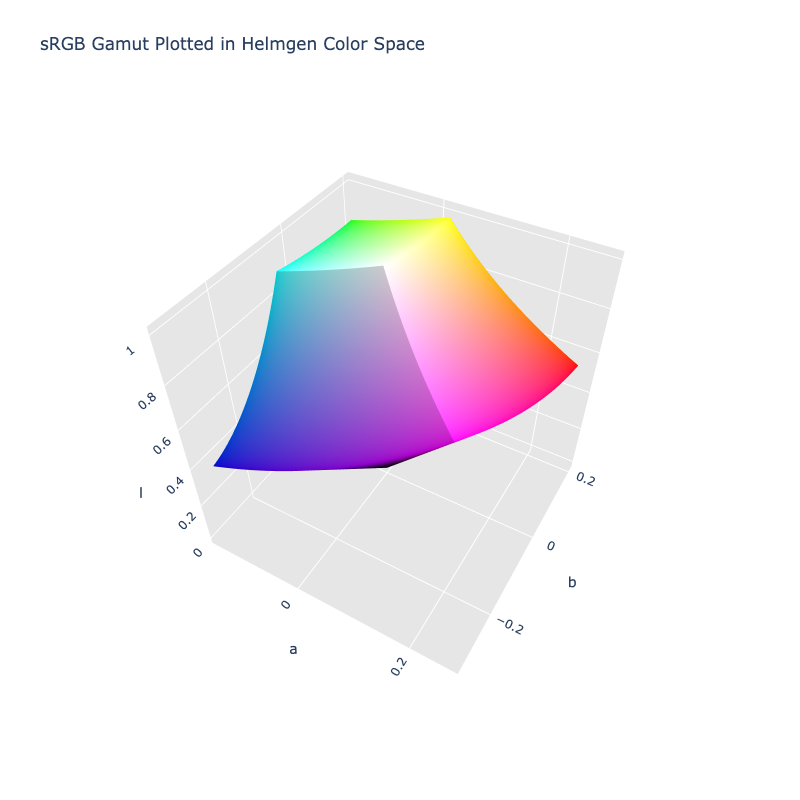
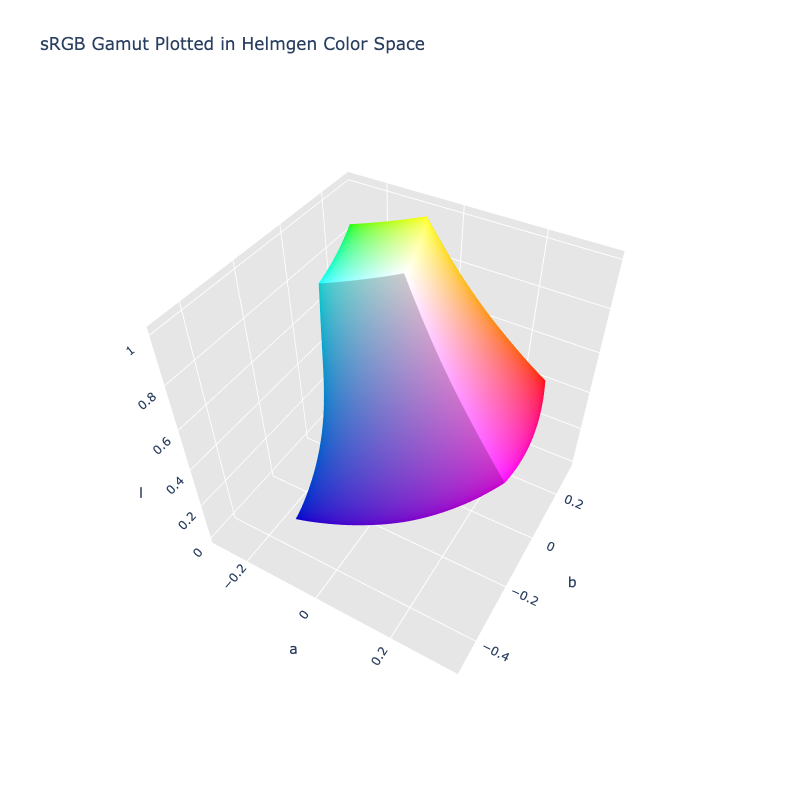
Update helmgen

Changed region(s): [[0.25, 0.25, 0.7188, 0.6562], [0.7188, 0.5938, 0.75, 0.625], [0.4688, 0.8125, 0.5, 0.8438]]

diff --git a/coloraide/spaces/helmgen.py b/coloraide/spaces/helmgen.py
@@ -15,51 +15,229 @@ Key differences from Helmlab (MetricSpace):
 - https://github.com/Grkmyldz148/helmlab
 """
 from __future__ import annotations
+import math
 from .lab import Lab
 from ..cat import WHITES
 from ..channels import Channel, FLG_MIRROR_PERCENT
 from .. import algebra as alg
 from ..types import Vector
 
+# Depressed cubic parameter
+ALPHA = 0.02
+S = math.sqrt(ALPHA / 3)
+S3 = S ** 3
+
+# L-gated hue enrichment parameters
+ENR_AMP = 0.055
+ENR_CENTER = 264.5 * math.pi / 180 # radians
+ENR_SIGMA = 0.7
+ENR_LLO = 0.37
+ENR_LHI = 1.0
+
 
 M1 = [
-    [0.758376129483666, 0.38380162590825073, -0.09608055040602373],
-    [0.1267139363153284, 0.8421628149123207, 0.03434823621506485],
-    [0.07639223722200054, 0.25894352627545103, 0.6139139663787314]
+    [0.8154374735648701, 0.3603221491264266, -0.12432703417946676],
+    [0.03298391207546648, 0.9292940788255503, 0.03614494665290377],
+    [0.048184113668356454, 0.26427748135788043, 0.6336388271114471]
 ]
 
 M1_INV = [
-    [1.4133073795748359, -0.7245661027731641, 0.2617287231983285],
-    [-0.20907372745004316, 1.3153903462455017, -0.10631661879545858],
-    [-0.08767910052303855, -0.46465890124976855, 1.641168001772807]
+    [1.2326502723725545, -0.555741473217925, 0.2735612008453706],
+    [-0.04076658787624679, 1.1122097325799585, -0.07144314470371178],
+    [-0.07673215022426162, -0.4216188546558441, 1.5871810048801054]
 ]
 
 M2 = [
-    [0.10058070589596234, 1.0155897099394149, -0.1161704158353769],
-    [2.361576469961645, -2.4409973750629357, 0.07942090510129071],
-    [0.04565327074453785, 0.818754884454245, -0.8644081551987829]
+    [0.21186668013760682, 0.7989440040850104, -0.004099375589489282],
+    [2.4672018828033475, -2.9877348024830788, 0.520532919679731],
+    [-0.11390787868068575, 1.3932982808117473, -1.279390402131062]
 ]
 
 M2_INV = [
-    [0.9999999999999997, 0.3827736318539182, -0.09922417671418936],
-    [0.9999999999999996, -0.039921540824987126, -0.13806096115936264],
-    [0.9999999999999997, -0.017597113360184317, -1.292870720601441]
+    [0.9933334327571627, 0.32599327253052285, 0.12945085631713896],
+    [0.9933334327571626, -0.08708353111074632, -0.03861361743004954],
+    [0.9933334327571621, -0.12386097008215027, -0.8351991365871065]
 ]
+
+PW_L_IN = [
+    0, 0.05, 0.1, 0.15, 0.2, 0.25, 0.3, 0.35, 0.4, 0.45, 0.5,
+    0.55, 0.6, 0.65, 0.7, 0.75, 0.8, 0.85, 0.9, 0.95, 1.0
+]
+
+PW_L_OUT = [
+    0, 0.009494013522189627, 0.02564569838030986, 0.05525966165868908,
+    0.10574901531227408, 0.16055853320726027, 0.2140596489299375, 0.2678623050881122,
+    0.3220435246104499, 0.3739052098520243, 0.43020997780918835, 0.4835465162128873,
+    0.5399824670411352, 0.5956710081330342, 0.6542161666450477, 0.7115380216519989,
+    0.7702762412711669, 0.8293313467712836, 0.889406386197059, 0.9462829573474727,
+    1.0
+]
+
+PW_N = len(PW_L_IN)
+
+
+# Depressed cubic: y ** 3 + αy = x
+def depcubic_fwd(x: float) -> float:
+    """Depressed cubic forward."""
+    t = x / (2 * S3)
+    y = 2 * S * math.sinh(math.asinh(t) / 3)
+    # Halley refinement
+    f = y ** 3 + ALPHA * y - x
+    fp = 3 * y * y + ALPHA
+    fpp = 6 * y
+    denom = 2 * fp * fp - f * fpp
+    if abs(denom) > 1e-30:
+        y -= 2 * f * fp / denom
+    return y
+
+
+def depcubic_inv(y: float) -> float:
+    """Depressed cubic inverse."""
+
+    return y * y * y + ALPHA * y
+
+
+# L - gated hue enrichment
+def enrich_gate(l: float) -> float:
+    """Enrichment gate."""
+    t = max(0, min(1, (l - ENR_LLO) / (ENR_LHI - ENR_LLO)))
+    return math.sin(math.pi * t) ** 2
+
+
+def enrich_fwd(l: float, a: float, b: float) -> Vector:
+    """Enrichment forward."""
+    c = math.sqrt(a ** 2 + b ** 2)
+    if (c < 1e-12):
+        return [a, b]
+
+    gate = enrich_gate(l)
+    if (gate < 1e-12):
+        return [a, b]
+
+    h = math.atan2(b, a)
+    dh = h - ENR_CENTER
+    dh = dh - round(dh / (2 * math.pi)) * 2 * math.pi
+    gauss = math.exp(-0.5 * (dh / ENR_SIGMA) ** 2)
+    h_new = h + ENR_AMP * gate * gauss
+    return [c * math.cos(h_new), c * math.sin(h_new)]
+
+
+def enrich_inv (l: float, a: float, b: float) -> Vector:
+    """Inverse enrichment."""
+    c = math.sqrt(a ** 2 + b ** 2)
+    if (c < 1e-12):
+        return [a, b]
+
+    gate = enrich_gate(l)
+    if (gate < 1e-12):
+        return [a, b]
+
+    h_target = math.atan2(b, a)
+    sig2 = ENR_SIGMA * ENR_SIGMA
+    ag = ENR_AMP * gate
+    h = h_target
+    for _ in range(8):
+        dh = h - ENR_CENTER
+        dh = dh - round(dh / (2 * math.pi)) * 2 * math.pi
+        gauss = math.exp(-0.5 * dh * dh / sig2)
+        f = h + ag * gauss - h_target
+        fp = 1 + ag * gauss * (-dh / sig2)
+        fpp = ag * gauss * (-1 / sig2 + dh * dh / (sig2 * sig2))
+        den = 2 * fp * fp - f * fpp
+        if abs(den) > 1e-30:
+            h -= 2 * f * fp / den
+
+    return [c * math.cos(h), c * math.sin(h)]
+
+
+# PW L correction
+def pw_l_fwd(l: float) -> float:
+    """PW L correction (forward)."""
+    if (l <= 0 or l >= 1):
+        return l
+
+    lo, hi  = 0, PW_N - 1
+    while (hi - lo) > 1:
+        mid = (lo + hi) >> 1
+        if (PW_L_IN[mid] <= l):
+            lo = mid
+        else:
+            hi = mid
+
+    t = (l - PW_L_IN[lo]) / (PW_L_IN[hi] - PW_L_IN[lo])
+    return PW_L_OUT[lo] + t * (PW_L_OUT[hi] - PW_L_OUT[lo])
+
+
+def pw_l_inv(l: float) -> float:
+    """PW L correction (inverse)."""
+    if l <= PW_L_OUT[0] or l >= PW_L_OUT[PW_N - 1]:
+        return l
+
+    lo, hi = 0, PW_N - 1
+    while (hi - lo) > 1:
+        mid = (lo + hi) >> 1
+        if PW_L_OUT[mid] <= l:
+            lo = mid
+        else:
+            hi = mid
+
+    t = (l - PW_L_OUT[lo]) / (PW_L_OUT[hi] - PW_L_OUT[lo])
+    return PW_L_IN[lo] + t * (PW_L_IN[hi] - PW_L_IN[lo])
 
 
 def xyz_d65_to_helmgen(xyz: Vector) -> Vector:
     """Convert XYZ to Helmgen."""
 
+    # Stage 1: XYZ -> LMS (M1)
     lms = alg.matmul_x3(M1, xyz, dims=alg.D2_D1)
-    c = [alg.nth_root(v, 3) for v in lms]
-    return alg.matmul_x3(M2, c, dims=alg.D2_D1)
+    c = [depcubic_fwd(max(v, 0)) for v in lms]
+
+    # Stage 2.5: Smooth neutral blend (C∞ correction for achromatic precision)
+    mean = sum(c) / 3
+    mx = max(c)
+    mn = min(c)
+    spread = (mx - mn) / max(abs(mean), 1e-30)
+    w = math.exp(-((spread / 1e-5) ** 2))
+    c = [v + w * (mean - v) for v in c]
+
+    # Stage 3: LMS_c -> Lab (M2)
+    l, a, b = alg.matmul_x3(M2, c, dims=alg.D2_D1)
+
+    # Stage 4: Piecewise-linear L correction
+    l = pw_l_fwd(l)
+
+    # Stage 5: L-gated hue enrichment
+    a, b = enrich_fwd(l, a, b)
+
+    return [l, a, b]
 
 
 def helmgen_to_xyz(lab: Vector) -> Vector:
     """Convert Helmgen to XYZ."""
 
-    c = alg.matmul_x3(M2_INV, lab, dims=alg.D2_D1)
-    lms = [alg.spow(v, 3) for v in c]
+    l, a, b = lab
+
+    # Undo Stage 5: L-gated hue enrichment
+    a, b = enrich_inv(l, a, b)
+
+    # Undo Stage 4: PW L correction
+    l = pw_l_inv(l)
+
+    # Undo Stage 3: Lab -> LMS_c (`M2_INV`)
+    c = alg.matmul_x3(M2_INV, [l, a, b], dims=alg.D2_D1)
+
+    # Undo Stage 2.5: Smooth neutral blend
+    mean = sum(c) / 3
+    mx = max(c)
+    mn = min(c)
+    spread = (mx - mn) / max(abs(mean), 1e-30)
+    w = math.exp(-((spread / 1e-5) ** 2))
+    c = [v + w * (mean - v) for v in c]
+
+    # Undo Stage 2: Inverse depressed cubic (x = y ** 3 + αy)
+    lms = [depcubic_inv(v) for v in c]
+
+    # Undo Stage 1: LMS -> XYZ (`M1_INV`)
     return alg.matmul_x3(M1_INV, lms, dims=alg.D2_D1)
 
 

diff --git a/tests/test_helmgen.py b/tests/test_helmgen.py
@@ -9,18 +9,18 @@ class TestHelmgen(util.ColorAssertsPyTest):
     """Test Helmgen."""
 
     COLORS = [
-        ('red', 'color(--helmgen 0.64405 0.26587 0.13741)'),
-        ('orange', 'color(--helmgen 0.80957 0.12402 0.16774)'),
-        ('yellow', 'color(--helmgen 0.9882 0.01774 0.20186)'),
-        ('green', 'color(--helmgen 0.53125 -0.08866 0.10654)'),
-        ('blue', 'color(--helmgen 0.43897 -0.13584 -0.3167)'),
-        ('indigo', 'color(--helmgen 0.32837 0.02477 -0.15215)'),
-        ('violet', 'color(--helmgen 0.75323 0.10444 -0.09715)'),
+        ('red', 'color(--helmgen 0.56358 0.28763 0.18093)'),
+        ('orange', 'color(--helmgen 0.75771 0.07633 0.24769)'),
+        ('yellow', 'color(--helmgen 0.96486 -0.0828 0.31422)'),
+        ('green', 'color(--helmgen 0.44109 -0.17567 0.18227)'),
+        ('blue', 'color(--helmgen 0.36553 -0.04097 -0.4854)'),
+        ('indigo', 'color(--helmgen 0.23764 0.11887 -0.2513)'),
+        ('violet', 'color(--helmgen 0.72132 0.19702 -0.16488)'),
         ('white', 'color(--helmgen 1 0 0)'),
-        ('gray', 'color(--helmgen 0.59987 0 0)'),
+        ('gray', 'color(--helmgen 0.53175 0 0)'),
         ('black', 'color(--helmgen 0 0 0)'),
-        ('color(srgb 1.01 1.01 1.01)', 'color(--helmgen 1.0076 0 0)'),
-        ('color(srgb 1e-3 1e-3 1e-3)', 'color(--helmgen 0.04262 0 0)'),
+        ('color(srgb 1.01 1.01 1.01)', 'color(--helmgen 1.0077 0 0)'),
+        ('color(srgb 1e-3 1e-3 1e-3)', 'color(--helmgen 0.00074 0 0)'),
         # Test color
         ('color(--helmgen 0.5 0.1 -0.1)', 'color(--helmgen 0.5 0.1 -0.1)'),
         ('color(--helmgen 0.5 0.1 -0.1 / 0.5)', 'color(--helmgen 0.5 0.1 -0.1 / 0.5)'),

diff --git a/tests/test_helmgenlch.py b/tests/test_helmgenlch.py
@@ -10,15 +10,15 @@ class TestHelmgenlch(util.ColorAssertsPyTest):
     """Test Helmgenlch."""
 
     COLORS = [
-        ('red', 'color(--helmgenlch 0.64405 0.29928 27.332)'),
-        ('orange', 'color(--helmgenlch 0.80957 0.20861 53.523)'),
-        ('yellow', 'color(--helmgenlch 0.9882 0.20264 84.978)'),
-        ('green', 'color(--helmgenlch 0.53125 0.1386 129.77)'),
-        ('blue', 'color(--helmgenlch 0.43897 0.34461 246.79)'),
-        ('indigo', 'color(--helmgenlch 0.32837 0.15416 279.25)'),
-        ('violet', 'color(--helmgenlch 0.75323 0.14264 317.07)'),
+        ('red', 'color(--helmgenlch 0.56358 0.3398 32.171)'),
+        ('orange', 'color(--helmgenlch 0.75771 0.25919 72.872)'),
+        ('yellow', 'color(--helmgenlch 0.96486 0.32495 104.76)'),
+        ('green', 'color(--helmgenlch 0.44109 0.25314 133.94)'),
+        ('blue', 'color(--helmgenlch 0.36553 0.48713 265.18)'),
+        ('indigo', 'color(--helmgenlch 0.23764 0.278 295.32)'),
+        ('violet', 'color(--helmgenlch 0.72132 0.2569 320.07)'),
         ('white', 'color(--helmgenlch 1 0 0)'),
-        ('gray', 'color(--helmgenlch 0.59987 0 0)'),
+        ('gray', 'color(--helmgenlch 0.53175 0 0)'),
         ('black', 'color(--helmgenlch 0 0 none)'),
         # Test color
         ('color(--helmgenlch 1.0 0.5 270)', 'color(--helmgenlch 1 0.5 270)'),

diff --git a/docs/src/markdown/colors/helmgen.md b/docs/src/markdown/colors/helmgen.md
@@ -55,8 +55,8 @@ The string representation of the color object and the default string output use 
 `#!css-color color(--helmgen l a b / a)` form.
 
 ```py play
-Color("helmgen", [0.64405, 0.26587, 0.13741])
-Color("helmgen", [0.80957, 0.12402, 0.16774]).to_string()
+Color("helmgen", [0.56358, 0.28763, 0.18093])
+Color("helmgen", [0.75771, 0.07633, 0.24769]).to_string()
 ```
 
 ## Registering